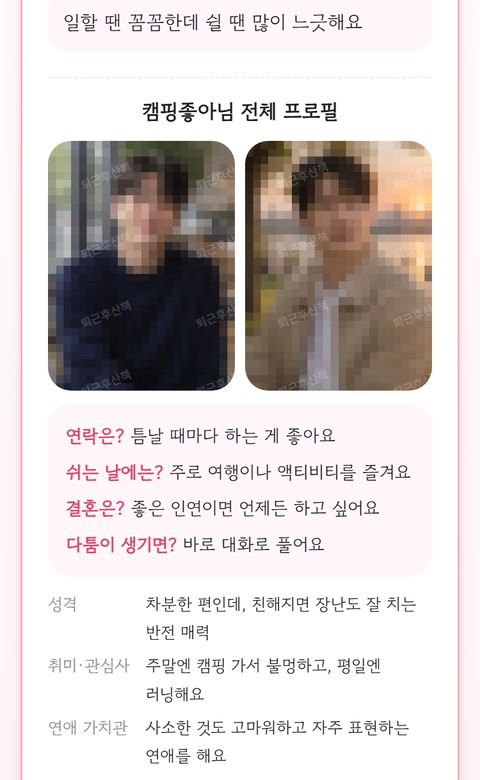
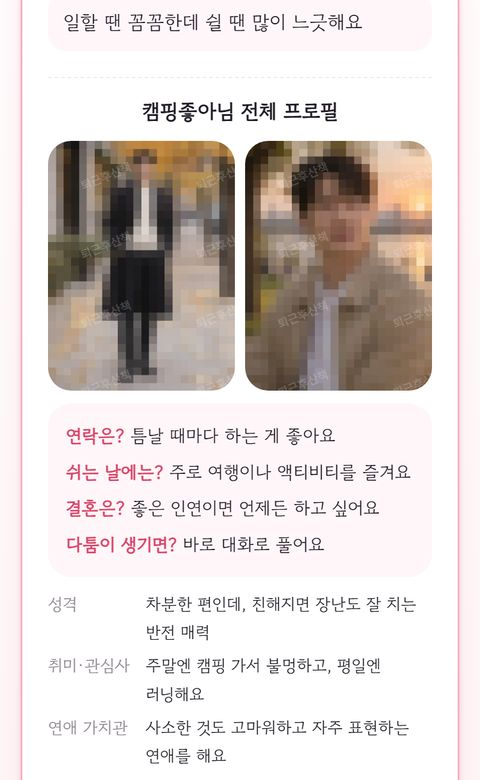
출생 연도: 남성 88~00·여성 90~02년생만, 5번 카드 전신 사진

Changed region(s): [[0.0938, 0.1538, 0.5, 0.5231]]

diff --git a/easy.html b/easy.html
@@ -276,12 +276,12 @@ input[type=text],input[type=tel],select,.long{font-weight:500}
       <p class="how-s">이렇게 진행돼요</p>
       <p class="how-t">상대 이미지보다<br><b>가치관 확인이 먼저</b>인 소개팅</p>
       <div class="how-cards" id="howCards" tabindex="0" aria-label="진행 순서, 옆으로 넘겨 보세요">
-        <div class="how-card" role="group" aria-label="1 / 6"><span class="how-n">STEP 1<i>/6</i></span><img class="how-img" src="how/1.jpg?v=10a629d8" alt="신청서 화면" width="480" height="780" loading="lazy" decoding="async"><strong>2분이면 신청 끝</strong><span class="how-d">닉네임과 연애 스타일만 답하면 돼요<br>복잡한 프로필은 필요 없어요</span></div>
-        <div class="how-card" role="group" aria-label="2 / 6"><span class="how-n">STEP 2<i>/6</i></span><img class="how-img" src="how/2.jpg?v=10a629d8" alt="추천 화면" width="480" height="780" loading="lazy" decoding="async"><strong>하루 1명 소개</strong><span class="how-d">사진 없이 프로필·가치관만 보고<br>마음이 가면 '더 알아보고 싶어요'</span></div>
-        <div class="how-card" role="group" aria-label="3 / 6"><span class="how-n">STEP 3<i>/6</i></span><img class="how-img" src="how/3.jpg?v=10a629d8" alt="질문 고르는 화면" width="480" height="780" loading="lazy" decoding="async"><strong>묻고 싶은 질문 5개 고르기</strong><span class="how-d">질문 20개 중에 묻고 싶은 걸 골라<br>상대에게 보내요</span></div>
-        <div class="how-card" role="group" aria-label="4 / 6"><span class="how-n">STEP 4<i>/6</i></span><img class="how-img" src="how/4.jpg?v=10a629d8" alt="질문 받은 화면" width="480" height="780" loading="lazy" decoding="async"><strong>질문 주고받기</strong><span class="how-d">상대가 답장하면서<br>나에게도 질문을 보내요</span></div>
-        <div class="how-card" role="group" aria-label="5 / 6"><span class="how-n">STEP 5<i>/6</i></span><img class="how-img" src="how/5.jpg?v=10a629d8" alt="전체 프로필 화면" width="480" height="780" loading="lazy" decoding="async"><strong>원하면 사진도 확인</strong><span class="how-d">질문을 다 주고받은 뒤에<br>원하시면 사진을 확인할 수 있어요</span></div>
-        <div class="how-card" role="group" aria-label="6 / 6"><span class="how-n">STEP 6<i>/6</i></span><img class="how-img" src="how/6.jpg?v=10a629d8" alt="카카오톡 아이디 화면" width="480" height="780" loading="lazy" decoding="async"><strong>둘 다 원하면 매칭</strong><span class="how-d">서로 매칭을 희망하면<br>카카오톡 아이디를 전달해 드려요</span></div>
+        <div class="how-card" role="group" aria-label="1 / 6"><span class="how-n">STEP 1<i>/6</i></span><img class="how-img" src="how/1.jpg?v=5cd03070" alt="신청서 화면" width="480" height="780" loading="lazy" decoding="async"><strong>2분이면 신청 끝</strong><span class="how-d">닉네임과 연애 스타일만 답하면 돼요<br>복잡한 프로필은 필요 없어요</span></div>
+        <div class="how-card" role="group" aria-label="2 / 6"><span class="how-n">STEP 2<i>/6</i></span><img class="how-img" src="how/2.jpg?v=5cd03070" alt="추천 화면" width="480" height="780" loading="lazy" decoding="async"><strong>하루 1명 소개</strong><span class="how-d">사진 없이 프로필·가치관만 보고<br>마음이 가면 '더 알아보고 싶어요'</span></div>
+        <div class="how-card" role="group" aria-label="3 / 6"><span class="how-n">STEP 3<i>/6</i></span><img class="how-img" src="how/3.jpg?v=5cd03070" alt="질문 고르는 화면" width="480" height="780" loading="lazy" decoding="async"><strong>묻고 싶은 질문 5개 고르기</strong><span class="how-d">질문 20개 중에 묻고 싶은 걸 골라<br>상대에게 보내요</span></div>
+        <div class="how-card" role="group" aria-label="4 / 6"><span class="how-n">STEP 4<i>/6</i></span><img class="how-img" src="how/4.jpg?v=5cd03070" alt="질문 받은 화면" width="480" height="780" loading="lazy" decoding="async"><strong>질문 주고받기</strong><span class="how-d">상대가 답장하면서<br>나에게도 질문을 보내요</span></div>
+        <div class="how-card" role="group" aria-label="5 / 6"><span class="how-n">STEP 5<i>/6</i></span><img class="how-img" src="how/5.jpg?v=5cd03070" alt="전체 프로필 화면" width="480" height="780" loading="lazy" decoding="async"><strong>원하면 사진도 확인</strong><span class="how-d">질문을 다 주고받은 뒤에<br>원하시면 사진을 확인할 수 있어요</span></div>
+        <div class="how-card" role="group" aria-label="6 / 6"><span class="how-n">STEP 6<i>/6</i></span><img class="how-img" src="how/6.jpg?v=5cd03070" alt="카카오톡 아이디 화면" width="480" height="780" loading="lazy" decoding="async"><strong>둘 다 원하면 매칭</strong><span class="how-d">서로 매칭을 희망하면<br>카카오톡 아이디를 전달해 드려요</span></div>
       </div>
       <div class="how-dots" id="howDots" aria-hidden="true"><i></i><i></i><i></i><i></i><i></i><i></i></div>
       <p class="how-swipe">옆으로 넘겨 보세요 →</p>
@@ -623,9 +623,13 @@ frame();
 
 // 신청서
 const thisYear=new Date().getFullYear();
-// 나이 조건 없음(성인만). 희망 상대 나이도 같은 연도 목록
-document.querySelectorAll('.years').forEach(s=>{for(let y=thisYear-19;y>=1960;y--)s.add(new Option(y+'년생',y));});
+// 희망 상대 나이는 성인 전체 연도. 내 출생 연도는 신청 대상만: 남성 88~00년생, 여성 90~02년생 (성별을 먼저 골라야 열림)
+document.querySelectorAll('#wantFrom,#wantTo').forEach(s=>{for(let y=thisYear-19;y>=1960;y--)s.add(new Option(y+'년생',y));});
 const val=n=>(document.querySelector(`input[name=${n}]:checked`)||{}).value;
+const AGE={'남성':[1988,2000],'여성':[1990,2002]};
+function fillYear(){const s=$('year'),r=AGE[val('gender')],v=s.value;s.length=1;s.disabled=!r;s.options[0].text=r?'선택해 주세요':'성별을 먼저 골라 주세요';
+  if(r)for(let y=r[1];y>=r[0];y--)s.add(new Option(y+'년생',y));s.value=v;}  // 범위 밖이던 연도는 빈칸으로
+document.querySelectorAll('input[name=gender]').forEach(i=>i.addEventListener('change',fillYear));fillYear();
 // 중복 선택 칸(지역)은 고른 값 전부
 const vals=n=>[...document.querySelectorAll(`input[name=${n}]:checked`)].map(i=>i.value);
 function show(step){[1,2,3].forEach(i=>{$('step'+i).hidden=step!==i;$('h'+i).classList.toggle('on',i<=step);});

diff --git a/index.html b/index.html
@@ -275,12 +275,12 @@ input[type=text],input[type=tel],select,.long{font-weight:500}
       <p class="how-s">이렇게 진행돼요</p>
       <p class="how-t">상대 이미지보다<br><b>가치관 확인이 먼저</b>인 소개팅</p>
       <div class="how-cards" id="howCards" tabindex="0" aria-label="진행 순서, 옆으로 넘겨 보세요">
-        <div class="how-card" role="group" aria-label="1 / 6"><span class="how-n">STEP 1<i>/6</i></span><img class="how-img" src="how/1.jpg?v=10a629d8" alt="신청서 화면" width="480" height="780" loading="lazy" decoding="async"><strong>2분이면 신청 끝</strong><span class="how-d">닉네임과 연애 스타일만 답하면 돼요<br>복잡한 프로필은 필요 없어요</span></div>
-        <div class="how-card" role="group" aria-label="2 / 6"><span class="how-n">STEP 2<i>/6</i></span><img class="how-img" src="how/2.jpg?v=10a629d8" alt="추천 화면" width="480" height="780" loading="lazy" decoding="async"><strong>하루 1명 소개</strong><span class="how-d">사진 없이 프로필·가치관만 보고<br>마음이 가면 '더 알아보고 싶어요'</span></div>
-        <div class="how-card" role="group" aria-label="3 / 6"><span class="how-n">STEP 3<i>/6</i></span><img class="how-img" src="how/3.jpg?v=10a629d8" alt="질문 고르는 화면" width="480" height="780" loading="lazy" decoding="async"><strong>묻고 싶은 질문 5개 고르기</strong><span class="how-d">질문 20개 중에 묻고 싶은 걸 골라<br>상대에게 보내요</span></div>
-        <div class="how-card" role="group" aria-label="4 / 6"><span class="how-n">STEP 4<i>/6</i></span><img class="how-img" src="how/4.jpg?v=10a629d8" alt="질문 받은 화면" width="480" height="780" loading="lazy" decoding="async"><strong>질문 주고받기</strong><span class="how-d">상대가 답장하면서<br>나에게도 질문을 보내요</span></div>
-        <div class="how-card" role="group" aria-label="5 / 6"><span class="how-n">STEP 5<i>/6</i></span><img class="how-img" src="how/5.jpg?v=10a629d8" alt="전체 프로필 화면" width="480" height="780" loading="lazy" decoding="async"><strong>원하면 사진도 확인</strong><span class="how-d">질문을 다 주고받은 뒤에<br>원하시면 사진을 확인할 수 있어요</span></div>
-        <div class="how-card" role="group" aria-label="6 / 6"><span class="how-n">STEP 6<i>/6</i></span><img class="how-img" src="how/6.jpg?v=10a629d8" alt="카카오톡 아이디 화면" width="480" height="780" loading="lazy" decoding="async"><strong>둘 다 원하면 매칭</strong><span class="how-d">서로 매칭을 희망하면<br>카카오톡 아이디를 전달해 드려요</span></div>
+        <div class="how-card" role="group" aria-label="1 / 6"><span class="how-n">STEP 1<i>/6</i></span><img class="how-img" src="how/1.jpg?v=5cd03070" alt="신청서 화면" width="480" height="780" loading="lazy" decoding="async"><strong>2분이면 신청 끝</strong><span class="how-d">닉네임과 연애 스타일만 답하면 돼요<br>복잡한 프로필은 필요 없어요</span></div>
+        <div class="how-card" role="group" aria-label="2 / 6"><span class="how-n">STEP 2<i>/6</i></span><img class="how-img" src="how/2.jpg?v=5cd03070" alt="추천 화면" width="480" height="780" loading="lazy" decoding="async"><strong>하루 1명 소개</strong><span class="how-d">사진 없이 프로필·가치관만 보고<br>마음이 가면 '더 알아보고 싶어요'</span></div>
+        <div class="how-card" role="group" aria-label="3 / 6"><span class="how-n">STEP 3<i>/6</i></span><img class="how-img" src="how/3.jpg?v=5cd03070" alt="질문 고르는 화면" width="480" height="780" loading="lazy" decoding="async"><strong>묻고 싶은 질문 5개 고르기</strong><span class="how-d">질문 20개 중에 묻고 싶은 걸 골라<br>상대에게 보내요</span></div>
+        <div class="how-card" role="group" aria-label="4 / 6"><span class="how-n">STEP 4<i>/6</i></span><img class="how-img" src="how/4.jpg?v=5cd03070" alt="질문 받은 화면" width="480" height="780" loading="lazy" decoding="async"><strong>질문 주고받기</strong><span class="how-d">상대가 답장하면서<br>나에게도 질문을 보내요</span></div>
+        <div class="how-card" role="group" aria-label="5 / 6"><span class="how-n">STEP 5<i>/6</i></span><img class="how-img" src="how/5.jpg?v=5cd03070" alt="전체 프로필 화면" width="480" height="780" loading="lazy" decoding="async"><strong>원하면 사진도 확인</strong><span class="how-d">질문을 다 주고받은 뒤에<br>원하시면 사진을 확인할 수 있어요</span></div>
+        <div class="how-card" role="group" aria-label="6 / 6"><span class="how-n">STEP 6<i>/6</i></span><img class="how-img" src="how/6.jpg?v=5cd03070" alt="카카오톡 아이디 화면" width="480" height="780" loading="lazy" decoding="async"><strong>둘 다 원하면 매칭</strong><span class="how-d">서로 매칭을 희망하면<br>카카오톡 아이디를 전달해 드려요</span></div>
       </div>
       <div class="how-dots" id="howDots" aria-hidden="true"><i></i><i></i><i></i><i></i><i></i><i></i></div>
       <p class="how-swipe">옆으로 넘겨 보세요 →</p>
@@ -622,9 +622,13 @@ frame();
 
 // 신청서
 const thisYear=new Date().getFullYear();
-// 나이 조건 없음(성인만). 희망 상대 나이도 같은 연도 목록
-document.querySelectorAll('.years').forEach(s=>{for(let y=thisYear-19;y>=1960;y--)s.add(new Option(y+'년생',y));});
+// 희망 상대 나이는 성인 전체 연도. 내 출생 연도는 신청 대상만: 남성 88~00년생, 여성 90~02년생 (성별을 먼저 골라야 열림)
+document.querySelectorAll('#wantFrom,#wantTo').forEach(s=>{for(let y=thisYear-19;y>=1960;y--)s.add(new Option(y+'년생',y));});
 const val=n=>(document.querySelector(`input[name=${n}]:checked`)||{}).value;
+const AGE={'남성':[1988,2000],'여성':[1990,2002]};
+function fillYear(){const s=$('year'),r=AGE[val('gender')],v=s.value;s.length=1;s.disabled=!r;s.options[0].text=r?'선택해 주세요':'성별을 먼저 골라 주세요';
+  if(r)for(let y=r[1];y>=r[0];y--)s.add(new Option(y+'년생',y));s.value=v;}  // 범위 밖이던 연도는 빈칸으로
+document.querySelectorAll('input[name=gender]').forEach(i=>i.addEventListener('change',fillYear));fillYear();
 // 중복 선택 칸(지역)은 고른 값 전부
 const vals=n=>[...document.querySelectorAll(`input[name=${n}]:checked`)].map(i=>i.value);
 function show(step){[1,2,3].forEach(i=>{$('step'+i).hidden=step!==i;$('h'+i).classList.toggle('on',i<=step);});
